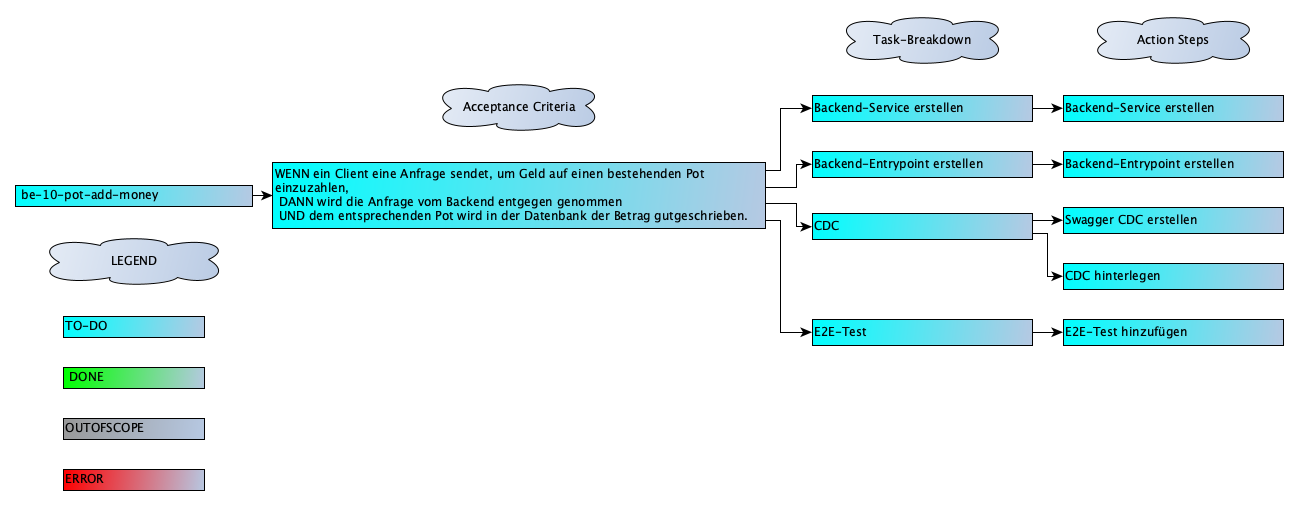
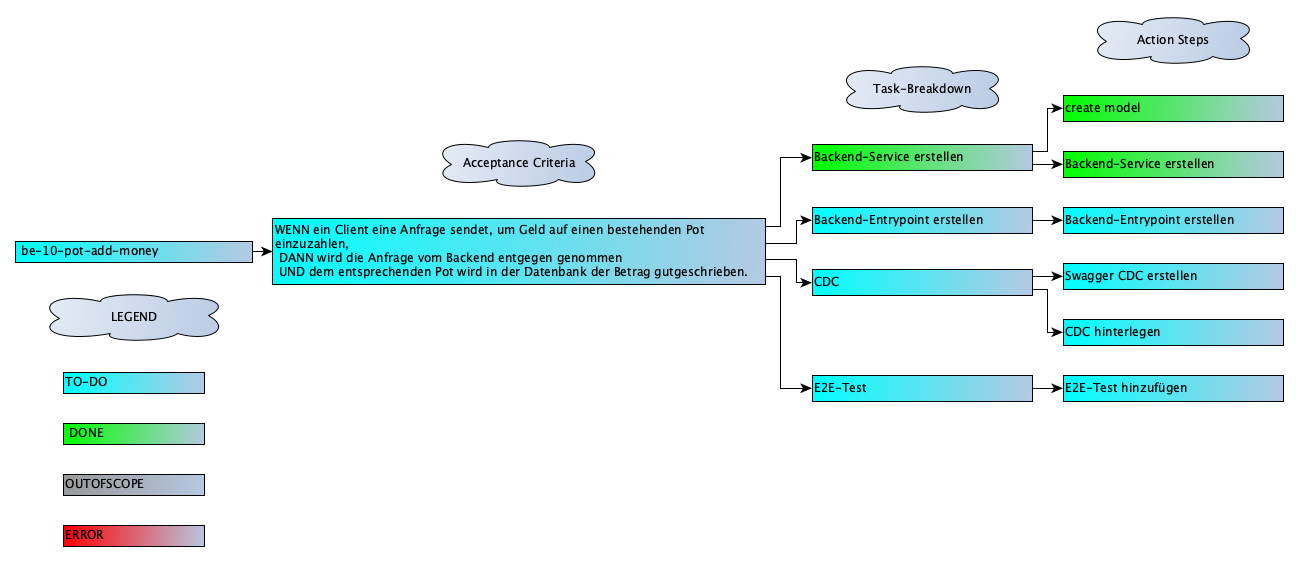
be-10 add service addMoneyToPot

Changed region(s): [[0.0, 0.0297, 1.0, 0.8911], [0.0308, 0.9208, 0.154, 0.9802]]

diff --git a/backend/src/apis/pots/pots.service.spec.ts b/backend/src/apis/pots/pots.service.spec.ts
@@ -7,6 +7,7 @@ import { Pots } from '../../model/entities/Pots';
 import { getRepositoryToken } from '@nestjs/typeorm';
 import { APIPotDTO } from '../../model/apis/APIPotDTO';
 import { APIEditedPotDTO } from '../../model/apis/APIEditedPotDTO';
+import { APIPotAdditionDTO } from '../../model/apis/APIPotAdditionDTO';
 
 jest.spyOn(console, 'error').mockImplementation(() => {});
 
@@ -51,7 +52,13 @@ describe('PotsService', () => {
     oldName: 'Holiday',
   };
 
-  const mockedPots = [
+  const amountToAdd: number = 1000;
+  const mockedPotAdditionEntityMapped: APIPotAdditionDTO = {
+    potName: mockedPotsEntityMapped[0].name,
+    amountToAdd,
+  };
+
+  const mockedPots: APIPotDTO[] = [
     {
       name: 'Savings',
       target: 2000.0,
@@ -66,13 +73,22 @@ describe('PotsService', () => {
     },
   ];
 
-  const mockedPotsDTO = {
+  const mockedPotsDTO: {
+    pots: APIPotDTO[];
+  } = {
     pots: mockedPots,
   };
-  const mockedPotsDTOJson = JSON.stringify(mockedPotsDTO);
+  const mockedPotsDTOJson: string = JSON.stringify(mockedPotsDTO);
 
-  beforeEach(async () => {
-    const mockRepository = {
+  beforeEach(async (): Promise<void> => {
+    const mockRepository: {
+      find: jest.Mock;
+      create: jest.Mock;
+      save: jest.Mock;
+      findOne: jest.Mock;
+      update: jest.Mock;
+      remove: jest.Mock;
+    } = {
       find: jest.fn().mockResolvedValue(mockedPotsEntity),
       create: jest.fn().mockReturnValue(mockedPotsEntity[0]),
       save: jest.fn().mockResolvedValue(mockedPotsEntity[0]),
@@ -100,30 +116,30 @@ describe('PotsService', () => {
     repository = module.get<Repository<Pots>>(getRepositoryToken(Pots));
   });
 
-  it('should be defined', () => {
+  it('should be defined', (): void => {
     expect(service).toBeDefined();
   });
 
-  it('returns pots from repository', async () => {
-    const result = await service.findAll();
+  it('returns pots from repository', async (): Promise<void> => {
+    const result: APIPotDTO[] = await service.findAll();
 
     expect(repository.find).toHaveBeenCalled();
     expect(result).toEqual(mockedPotsEntityMapped);
     expect(result).not.toEqual(mockedPots);
   });
 
-  it('returns pots from file if repository fails', async () => {
+  it('returns pots from file if repository fails', async (): Promise<void> => {
     jest
       .spyOn(repository, 'find')
       .mockRejectedValue(new Error('Database error'));
 
-    const result = await service.findAll();
+    const result: APIPotDTO[] = await service.findAll();
 
     expect(result).toEqual(mockedPots);
     expect(result).not.toEqual(mockedPotsEntityMapped);
   });
 
-  it('saves new pot to repository', async () => {
+  it('saves new pot to repository', async (): Promise<void> => {
     await service.addNewPot(mockedPotsEntityMapped[0]);
 
     expect(repository.create).toHaveBeenCalledWith(mockedPotsEntityMapped[0]);
@@ -131,7 +147,7 @@ describe('PotsService', () => {
     expect(repository.save).toHaveBeenCalledWith(mockedPotsEntity[0]);
   });
 
-  it('returns pots from file if repository fails', async () => {
+  it('returns pots from file if repository fails', async (): Promise<void> => {
     jest
       .spyOn(repository, 'save')
       .mockRejectedValue(new Error('Database error'));
@@ -141,7 +157,7 @@ describe('PotsService', () => {
     ).rejects.toThrow('Could not add pot.');
   });
 
-  it('updates a pot in repository', async () => {
+  it('updates a pot in repository', async (): Promise<void> => {
     await service.editPot(mockedEditedPotEntityMapped);
 
     expect(repository.findOne).toHaveBeenCalledWith({
@@ -154,7 +170,7 @@ describe('PotsService', () => {
     );
   });
 
-  it('throws an error if editing pot fails', async () => {
+  it('throws an error if editing pot fails', async (): Promise<void> => {
     jest
       .spyOn(repository, 'update')
       .mockRejectedValue(new Error('Database error'));
@@ -164,7 +180,7 @@ describe('PotsService', () => {
     ).rejects.toThrow('Could not edit pot.');
   });
 
-  it('throws an error if finding pot fails', async () => {
+  it('throws an error if finding pot fails', async (): Promise<void> => {
     jest
       .spyOn(repository, 'findOne')
       .mockRejectedValue(new Error('Database error'));
@@ -174,7 +190,7 @@ describe('PotsService', () => {
     ).rejects.toThrow('Could not edit pot.');
   });
 
-  it('deletes a pot in repository', async () => {
+  it('deletes a pot in repository', async (): Promise<void> => {
     await service.deletePot(mockedPots[0].name);
 
     expect(repository.findOne).toHaveBeenCalledWith({
@@ -184,7 +200,7 @@ describe('PotsService', () => {
     expect(repository.remove).toHaveBeenCalledWith(mockedPotsEntity[0]);
   });
 
-  it('throws an error if deleting pot fails', async () => {
+  it('throws an error if deleting pot fails', async (): Promise<void> => {
     jest
       .spyOn(repository, 'remove')
       .mockRejectedValue(new Error('Database error'));
@@ -194,7 +210,7 @@ describe('PotsService', () => {
     );
   });
 
-  it('throws an error if finding pot to delete fails', async () => {
+  it('throws an error if finding pot to delete fails', async (): Promise<void> => {
     jest
       .spyOn(repository, 'findOne')
       .mockRejectedValue(new Error('Database error'));
@@ -202,5 +218,35 @@ describe('PotsService', () => {
     await expect(() => service.deletePot(mockedPots[0].name)).rejects.toThrow(
       'Could not delete pot.',
     );
+  });
+
+  it('adds money to a pot in repository', async (): Promise<void> => {
+    await service.addMoneyToPot(mockedPotAdditionEntityMapped);
+
+    expect(repository.findOne).toHaveBeenLastCalledWith({
+      where: { name: mockedPotAdditionEntityMapped.potName },
+    });
+
+    expect(repository.update).toHaveBeenLastCalledWith(1, { total: 3000 });
+  });
+
+  it('throws an error if adding money to pot fails', async (): Promise<void> => {
+    jest
+      .spyOn(repository, 'update')
+      .mockRejectedValue(new Error('Database error'));
+
+    await expect(() =>
+      service.addMoneyToPot(mockedPotAdditionEntityMapped),
+    ).rejects.toThrow('Could not add money to pot.');
+  });
+
+  it('throws an error if finding pot to delete fails', async (): Promise<void> => {
+    jest
+      .spyOn(repository, 'findOne')
+      .mockRejectedValue(new Error('Database error'));
+
+    await expect(() =>
+      service.addMoneyToPot(mockedPotAdditionEntityMapped),
+    ).rejects.toThrow('Could not add money to pot.');
   });
 });

diff --git a/backend/src/apis/pots/pots.service.ts b/backend/src/apis/pots/pots.service.ts
@@ -6,6 +6,7 @@ import { Pots } from '../../model/entities/Pots';
 import { Repository } from 'typeorm';
 import { InjectRepository } from '@nestjs/typeorm';
 import { APIEditedPotDTO } from '../../model/apis/APIEditedPotDTO';
+import { APIPotAdditionDTO } from '../../model/apis/APIPotAdditionDTO';
 
 @Injectable()
 export class PotsService {
@@ -16,7 +17,7 @@ export class PotsService {
 
   async findAll(): Promise<APIPotDTO[]> {
     try {
-      const pots = await this.potsRepository.find();
+      const pots: Pots[] = await this.potsRepository.find();
       return this.mapPotEntities(pots);
     } catch (error) {
       console.error('Failed to read pots from database', error);
@@ -81,6 +82,29 @@ export class PotsService {
     }
   }
 
+  async addMoneyToPot(potAddition: APIPotAdditionDTO): Promise<void> {
+    try {
+      const potToAddMoneyTo: Pots = await this.potsRepository.findOne({
+        where: { name: potAddition.potName },
+      });
+
+      if (!potToAddMoneyTo) {
+        console.error(`No pot found with name ${potAddition.potName}`);
+      }
+
+      const newTotal = potToAddMoneyTo.total + potAddition.amountToAdd;
+
+      const update: Partial<APIPotDTO> = {
+        total: newTotal,
+      };
+
+      await this.potsRepository.update(potToAddMoneyTo.id, update);
+    } catch (error) {
+      console.error('Failed to add money to pot in database', error);
+      throw new Error('Could not add money to pot.');
+    }
+  }
+
   mapPotEntities(pots: Pots[]): APIPotDTO[] {
     let mappedPots: APIPotDTO[] = [];
     pots.forEach((pot: Pots): void => {
@@ -96,8 +120,10 @@ export class PotsService {
   }
 
   getPots(): APIPotDTO[] {
-    const filePath = path.join(__dirname, '../pots/pots.data.json');
-    const data = JSON.parse(fs.readFileSync(filePath, 'utf8'));
+    const filePath: string = path.join(__dirname, '../pots/pots.data.json');
+    const data: { pots: APIPotDTO[] } = JSON.parse(
+      fs.readFileSync(filePath, 'utf8'),
+    );
     const { pots } = data;
     return pots;
   }
